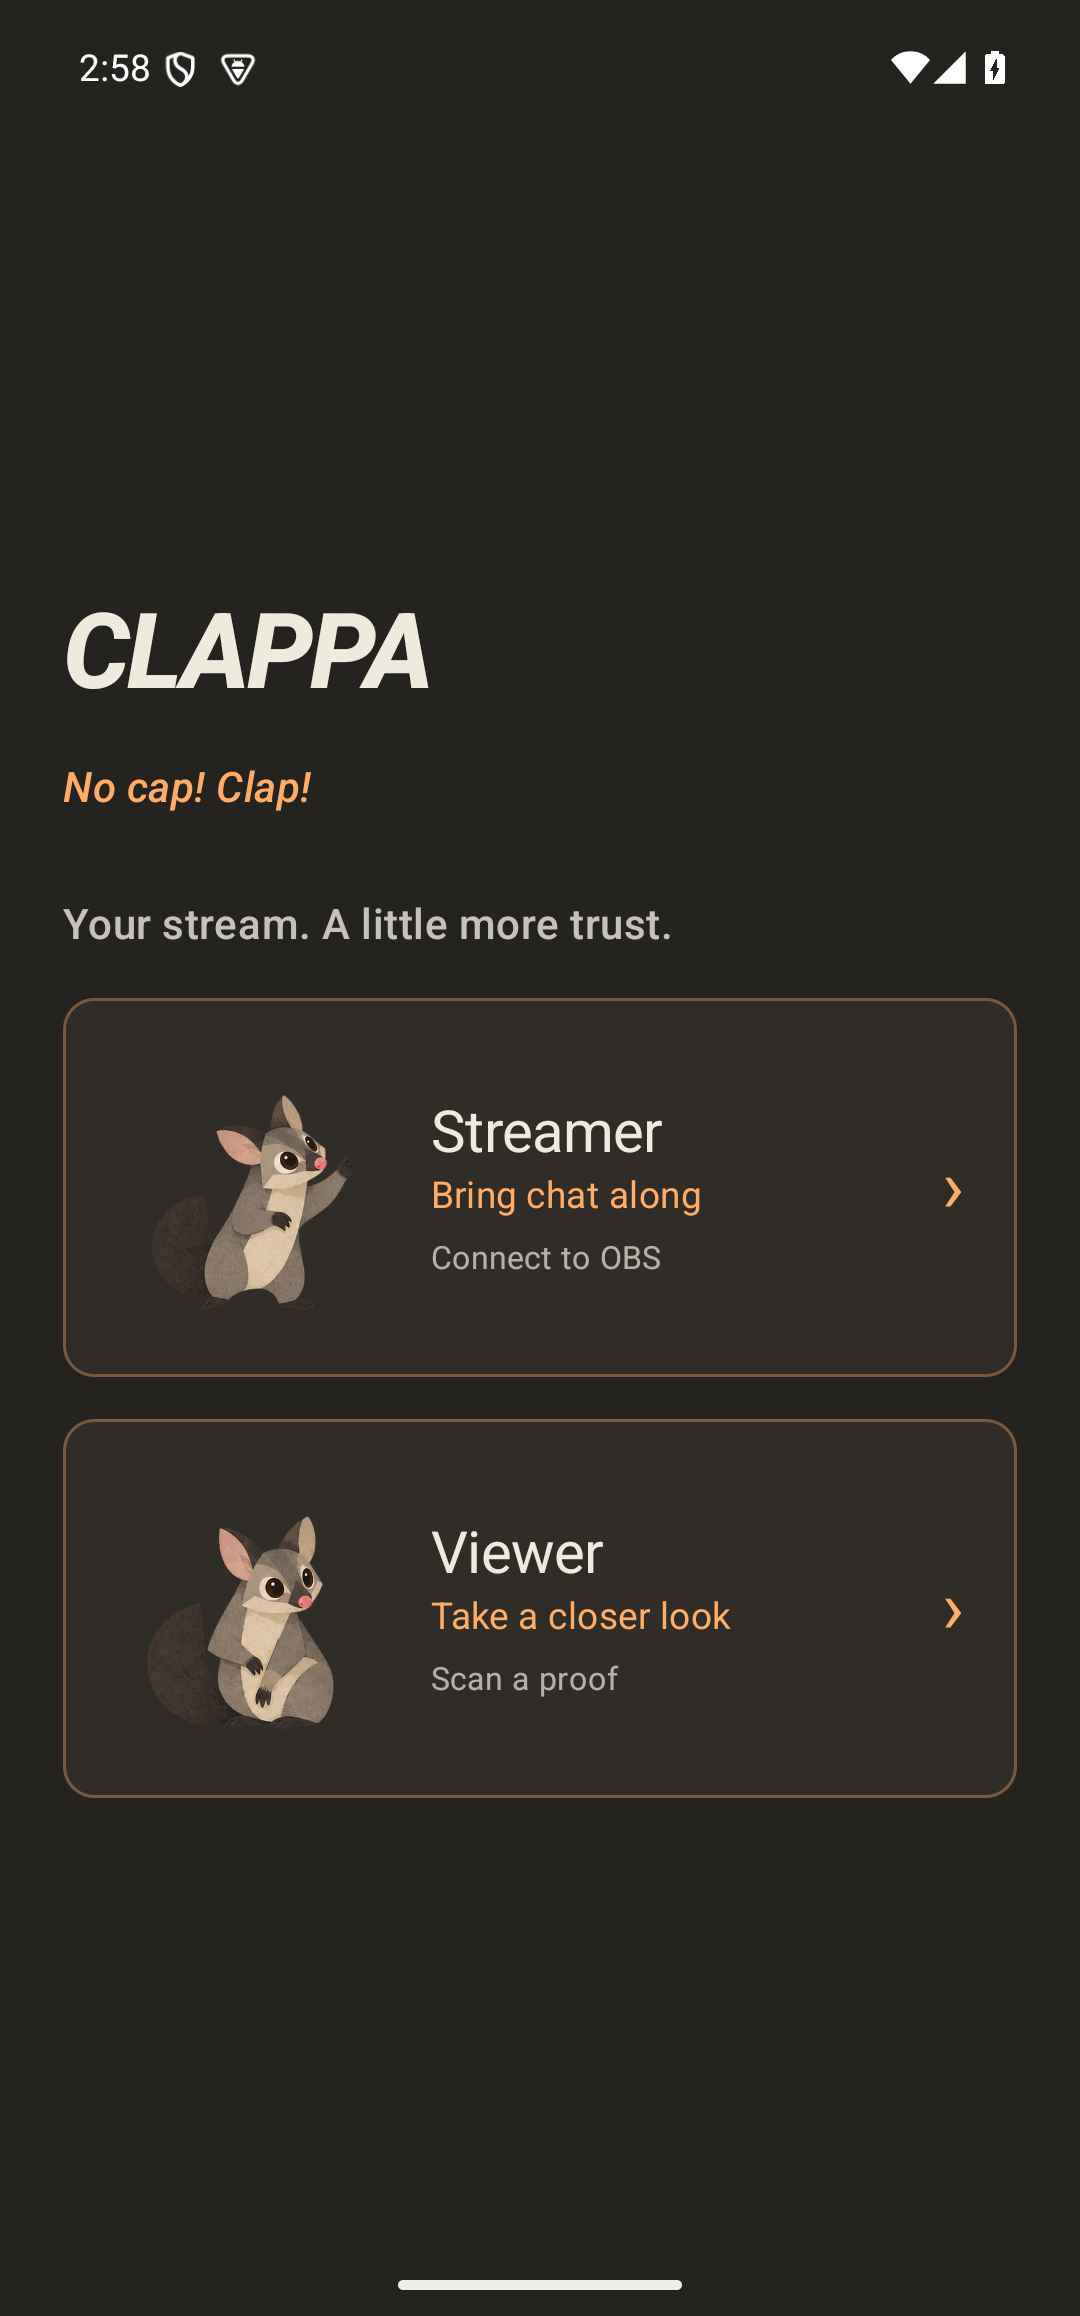
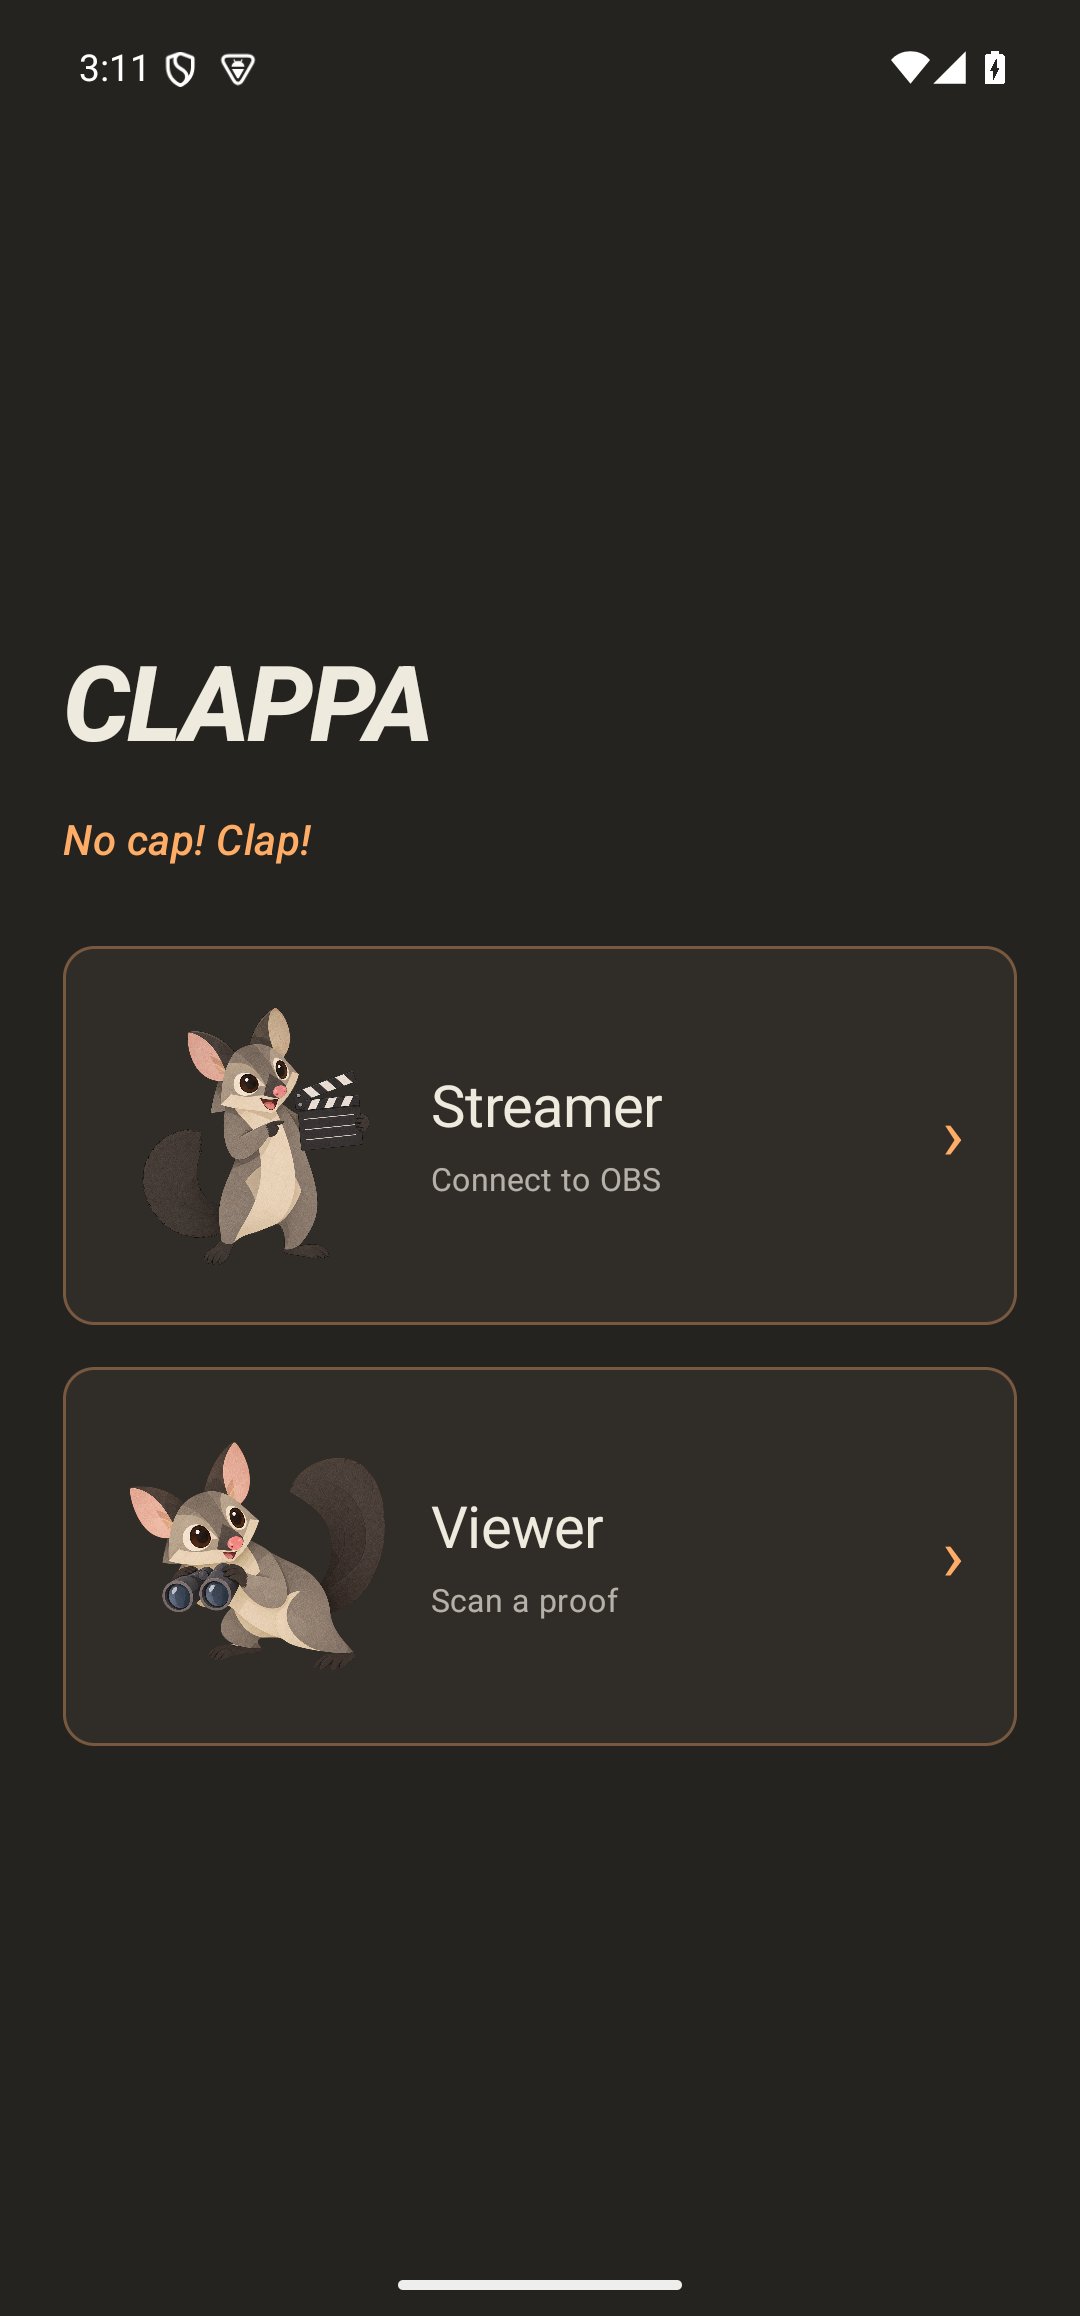
Replace passive menu art and remove unrequested slogans

diff --git a/android/app/src/main/java/org/clappa/app/ViewerActivity.kt b/android/app/src/main/java/org/clappa/app/ViewerActivity.kt
@@ -37,11 +37,10 @@ class HomeActivity:ComponentActivity(){
   ClappaScreenTheme{BoxWithConstraints(Modifier.fillMaxSize().safeDrawingPadding(),contentAlignment=androidx.compose.ui.Alignment.Center){val wide=maxWidth>maxHeight;Column(Modifier.widthIn(max=if(wide)840.dp else 560.dp).fillMaxWidth().verticalScroll(rememberScrollState()).padding(24.dp),verticalArrangement=Arrangement.spacedBy(if(wide)8.dp else 16.dp)){
    Wordmark(size=if(wide)32 else 40)
    Text("No cap! Clap!",color=MenuOrange,fontStyle=androidx.compose.ui.text.font.FontStyle.Italic,style=MaterialTheme.typography.titleMedium,modifier=Modifier.padding(bottom=if(wide)0.dp else 12.dp))
-   Text("Your stream. A little more trust.",style=MaterialTheme.typography.titleMedium,color=Chalk.copy(alpha=.8f))
    @Composable fun ModeCard(viewer:Boolean,modifier:Modifier){
     OutlinedCard(onClick={startActivity(Intent(this@HomeActivity,if(viewer)ViewerActivity::class.java else MainActivity::class.java))},modifier=modifier,colors=CardDefaults.outlinedCardColors(containerColor=androidx.compose.ui.graphics.Color(0xff302d29)),border=androidx.compose.foundation.BorderStroke(1.dp,MenuOrange.copy(alpha=.35f))){
      Row(Modifier.padding(20.dp),verticalAlignment=androidx.compose.ui.Alignment.CenterVertically,horizontalArrangement=Arrangement.spacedBy(16.dp)){
-      MenuPossum(if(viewer)1 else 3,Modifier.size(if(wide)88.dp else 104.dp));Column(Modifier.weight(1f)){Text(if(viewer)"Viewer" else "Streamer",style=MaterialTheme.typography.titleLarge);Text(if(viewer)"Take a closer look" else "Bring chat along",style=MaterialTheme.typography.bodyMedium,color=MenuOrange);Text(if(viewer)"Scan a proof" else "Connect to OBS",style=MaterialTheme.typography.bodySmall,color=Chalk.copy(alpha=.7f),modifier=Modifier.padding(top=6.dp))};Text("›",color=MenuOrange,style=MaterialTheme.typography.headlineMedium)
+      MenuPossum(1,Modifier.size(if(wide)88.dp else 104.dp),asset="mascot/menu/"+(if(viewer)"viewer" else "streamer")+".png");Column(Modifier.weight(1f)){Text(if(viewer)"Viewer" else "Streamer",style=MaterialTheme.typography.titleLarge);Text(if(viewer)"Scan a proof" else "Connect to OBS",style=MaterialTheme.typography.bodySmall,color=Chalk.copy(alpha=.7f),modifier=Modifier.padding(top=6.dp))};Text("›",color=MenuOrange,style=MaterialTheme.typography.headlineMedium)
      }
     }
    }
@@ -95,7 +94,7 @@ open class ViewerActivity:ComponentActivity(){
       Text("Public key (P-256)",Modifier.padding(top=12.dp));SelectionContainer{Text(r.key.getString("spki"),style=MaterialTheme.typography.bodySmall)}
       Text("Signatures and beacon checked. Exact photo and recording checks need the original files.",Modifier.padding(vertical=16.dp),style=MaterialTheme.typography.bodySmall)
      }
-    }?:Column(Modifier.padding(vertical=24.dp)){MenuPossum(1,Modifier.size(160.dp));Text("Let’s take a closer look",style=MaterialTheme.typography.headlineSmall);Text("Point at the CLAPPA code on a stream.",Modifier.padding(top=12.dp))}
+    }?:Column(Modifier.padding(vertical=24.dp)){MenuPossum(1,Modifier.size(160.dp));Text("Scan a proof",style=MaterialTheme.typography.headlineSmall);Text("Point at the CLAPPA code on a stream.",Modifier.padding(top=12.dp))}
     error?.let{Text(it,color=MaterialTheme.colorScheme.error,modifier=Modifier.padding(vertical=12.dp))}
     if(verifying){LinearProgressIndicator(Modifier.fillMaxWidth());Text("Checking signatures and freshness beacon…",Modifier.padding(vertical=12.dp))}
    };Spacer(Modifier.height(12.dp));Button(onClick={startScan()},enabled=!verifying,modifier=Modifier.fillMaxWidth().heightIn(min=56.dp)){Text(if(result==null)"Scan a stream" else "Scan another proof")}}
@@ -137,3 +136,4 @@ open class ViewerActivity:ComponentActivity(){
   }}finally{playing=false}}}
  override fun onDestroy(){provider?.unbindAll();worker.shutdown();audio?.let{runCatching{it.stop()}};super.onDestroy()}
 }
+

diff --git a/android/app/src/main/java/org/clappa/app/MenuPossum.kt b/android/app/src/main/java/org/clappa/app/MenuPossum.kt
@@ -10,8 +10,8 @@ import androidx.compose.ui.layout.ContentScale
 import androidx.compose.ui.platform.LocalContext
 
 /** Approved complete character artwork. No anatomical crops or part transforms. */
-@Composable internal fun MenuPossum(pose:Int,modifier:Modifier=Modifier){
+@Composable internal fun MenuPossum(pose:Int,modifier:Modifier=Modifier,asset:String?=null){
  val context=LocalContext.current
- val bitmap=remember(pose){context.assets.open("mascot/approved/pose-${pose.toString().padStart(2,'0')}.png").use{BitmapFactory.decodeStream(it).asImageBitmap()}}
+ val bitmap=remember(pose,asset){context.assets.open(asset?:"mascot/approved/pose-${pose.toString().padStart(2,'0')}.png").use{BitmapFactory.decodeStream(it).asImageBitmap()}}
  Image(bitmap,"CLAPPA possum",modifier,contentScale=ContentScale.Fit)
 }

diff --git a/docs/menu-art15.1.md b/docs/menu-art15.1.md
@@ -1,0 +1,12 @@
+# Menu mascot generation — Test15.1
+
+Built-in image_gen, transparent_background=true. Both use approved pose-01.png as reference. Whole RGBA assets saved intact in android/app/src/main/assets/mascot/menu/streamer.png and viewer.png. The first passive variants were rejected and are not shipped.
+
+## Streamer prompt
+
+Create ONE transparent full-body CLAPPA STREAMER mascot sprite. Reference is the approved exact Australian brushtail possum design, not just a moodboard. Keep its brown eyes, pink nose, tall large ears, cream belly, gray/taupe cut-paper fur and thick dark brush tail. Make a CLEARLY NEW EXPRESSIVE POSE, NOT the reference's seated holding pose: standing upright with a joyful gentle open-mouth smile, a jaunty slight sideways body lean. One arm holds a charcoal clapperboard out beside the torso on the viewer's right, and the OTHER paw points distinctly at the board in an enthusiastic 'here it is!' presenting gesture. The board is beside the body, not squarely blocking the chest; full face and cream belly remain visible. Balanced natural arms, point with one small finger, no extra limbs. Tail curves behind toward viewer's left with its whole brush shape visible. Clapperboard has black-and-white striped hinged top and fixed lower jaw, blank ruled charcoal slate, NO TEXT. Preserve exactly the reference's gentle rounded layered paper-cut shapes and subtle paper texture; no dark outlines, photorealism, origami faceting, new costume or scene. Single complete character, happy and lively but not exaggerated or chibi. Square canvas, entire tail, ears, paws and feet included, 8% transparent margin; genuinely transparent RGBA background. Must read clearly as a happy possum pointing at his clapperboard at phone-menu size.
+
+## Viewer prompt
+
+Create ONE transparent full-body CLAPPA VIEWER mascot sprite. Use attached approved Australian brushtail possum as exact character design reference: warm gray/taupe paper-cut fur, cream belly, large brown eyes, pink nose, tall soft pointed ears, thick dark brush tail. Make a CLEARLY DIFFERENT EXPRESSIVE POSE from a plain seated mascot and from an upright presenter: a low playful forward-leaning crouch, bent knees and body angled toward viewer's LEFT, head tilted inquisitively, warm pleased small open-mouth smile as if something interesting caught its attention. Both paws hold a recognizable pair of dark charcoal binoculars at upper chest height, JUST BELOW the chin, NEVER covering the face. Two round large objective lenses face left/front, elbows bent naturally. Thick brush tail sweeps upward behind to viewer's RIGHT, balancing the forward lean. Keep full eyes visible, not a skeptical raised eyebrow, no winking. Entire animal and binoculars included, feet and tail never cropped. Match reference restrained curved layered cut-paper shapes and delicate paper texture; no hard outlines, no photoreal fur, no angular origami, no exaggerated chibi proportions, no costume, no text or scene. Single cute intact character and prop, square composition with transparent padding all around, actual transparent RGBA background. Clearly communicate engaged curiosity through the whole body, not merely substituting binoculars into the same seated pose.
+

diff --git a/AGENTS.md b/AGENTS.md
@@ -1,3 +1,5 @@
+**Test15.1:** The only tagline is No cap! Clap! Do not invent promotional slogans. Streamer/viewer use new whole menu sprites with distinct presenting/binocular poses. Existing challenge sprites unchanged. See docs/test15.1.md.
+
 **Test15 (2026-10-02):** Menus/viewer/chat invitation use approved whole possum sprites. OBS chat supports read-only Twitch device authorization, with tokens in memory only and cancellation guards. Preserve 3-viewer/15-second voting, two-minute cooldown and explicit phone acceptance. Live authorization remains unverified. See docs/test15.md.
 
 **Test14.1 (2026-10-01):** New challenges use versioned CLAPPA-CHOICES-v2; preserve v1 verification. Two-camera capture defaults on for capable devices without an explicit preference. New menus use orange accents, mode icons and expandable proof details. See docs/test14.1.md.
@@ -397,5 +399,6 @@ The central goal is to bind a fresh challenge, its photos and the ongoing stream
 Read `docs/test10.md`, `docs/review10/TIMING-PROFILE.md` and `docs/review10/NEXT-CAMERA-PROFILE.md`. Keep the signed ten-second policy enforced in Android, native OBS, detached QR validation and the bundle verifier. Countdown starts at issuance, not after audio/camera setup. Do not mislabel phone-reported completion times as sensor exposure or NIST time. Separate UI screenshot collection from timed flow checks so the harness does not consume the response window.
 
 The dual-camera experiment is unsigned, local-only, capability-gated and does not establish simultaneous exposure. Preserve those labels until a full portable multi-view proof profile and illumination/timing/QR checks exist. There is no iOS build yet. Maintain the shared JavaScript/Kotlin choice vectors for the future beacon profile; their presence does not mean the native app uses that profile. Current NIST certificate/signature mismatch evidence is retained in review10; do not bypass verification or substitute a historical pulse as fresh.
+
 
 

diff --git a/README.md b/README.md
@@ -4,13 +4,13 @@
 
 ### *No cap! Clap!*
 
-**A fresh challenge. Two camera views. Something viewers can judge for themselves.**
+
 
 CLAPPA pairs an Android phone with OBS. Tap the clapperboard, hear a little musical clack, and answer an unpredictable photo challenge. The pictures appear on stream beside a scannable proof. Viewers can use CLAPPA to check the signed evidence and compare the photos with what they watched happen.
 
 No CLAPPA account. No hosted proof storage. Your signing identity and original evidence stay with you.
 
-**[Download the Test15 preview](https://github.com/dagnabbitdamien/clappa/releases/tag/test15)** · [Build notes](docs/test15.md) · [Developer setup](docs/GITHUB.md)
+**[Download the Test15.1 preview](https://github.com/dagnabbitdamien/clappa/releases/tag/test15.1)** · [Build notes](docs/test15.1.md) · [Developer setup](docs/GITHUB.md)
 
 ## For streamers
 
@@ -47,7 +47,7 @@ CLAPPA binds evidence for human judgment. It is not an automatic AI detector. A 
 - [Current architecture](docs/CURRENT-ARCHITECTURE.md)
 - [Protocol and verification](protocol/README.md)
 - [Full design specification](DESIGN_SPEC.md)
-- [Latest build notes](docs/test15.md)
+- [Latest build notes](docs/test15.1.md)
 
 Run the protocol/verifier tests with `pnpm install --frozen-lockfile` followed by `pnpm test` (Node.js 22+). Android and OBS require their respective native toolchains. Private keys, local recordings, proof photos and build caches are excluded from this repository.
 
@@ -56,3 +56,5 @@ No project license has been selected. Existing third-party licenses and asset at
 ## A peek inside
 
 <img src=".github/images/menu.png" width="300" alt="CLAPPA mode menu with approved paper possum illustrations and orange accents">
+
+

diff --git a/docs/test15.1.md b/docs/test15.1.md
@@ -1,0 +1,7 @@
+# Test15.1 — requested menu art and copy correction
+
+The only tagline is **No cap! Clap!**. Removed the unrequested secondary slogan and extra promotional card copy. Streamer and Viewer now use new whole possum illustrations, holding a clapperboard and binoculars at chest height respectively, generated using the approved pose 01 as the explicit reference. Existing challenge/success/error artwork is unchanged.
+
+Android version 0.3.0-test15.1 (21). Presentation-only update; the Test15 OBS plugin, proof protocol and Twitch behavior are unchanged. Test15's live Twitch validation limitations still apply.
+
+Both PNGs have native alpha, copied intact from the built-in image generator into `android/app/src/main/assets/mascot/menu/`. No slicing, erasing, background-removal script or anatomical animation was applied. Prompts are recorded in `menu-art15.1.md`. Native portrait and landscape screenshots are retained in the local review folder.

diff --git a/docs/release15.1.md b/docs/release15.1.md
@@ -1,0 +1,10 @@
+# Test15.1 — menu artwork and copy correction
+
+- Removed the unrequested secondary slogan. The only tagline is **No cap! Clap!**.
+- Streamer possum is upright, smiling and pointing at its clapperboard.
+- Viewer possum leans forward with binoculars at chest height and a raised brush tail.
+- Mode cards simply read Streamer / Connect to OBS and Viewer / Scan a proof.
+
+Presentation-only Android update. The OBS plugin, Twitch integration and signed proof protocol are unchanged from Test15. No need to reinstall the plugin if Test15 is already installed. Live Twitch authorization and real audience delivery remain unverified.
+
+Install CLAPPA-0.3.0-test15.1.apk, or use the complete Windows kit for a fresh setup. Both native orientations were reviewed. Generated PNGs preserve their alpha and entire character silhouettes.
